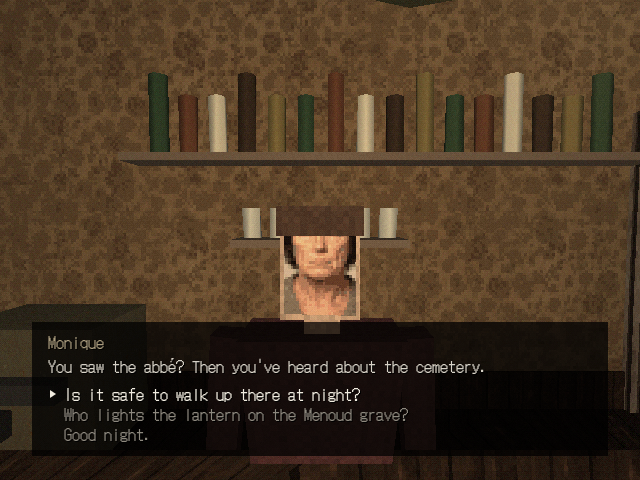
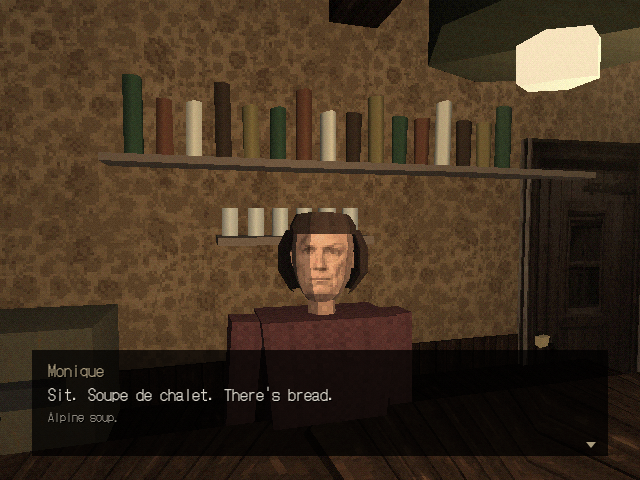
Step back to talking distance when a conversation starts
The reporter eases back to 1.3 m from the person over a third of a second, unless a wall is in the way, so the head fills about a fifth of the frame instead of most of it.

diff --git a/src/game/kit/npc.ts b/src/game/kit/npc.ts
@@ -3,10 +3,12 @@ import { castModel, type CharacterId } from '../../engine/characters/cast';
 import { Character, type WalkOptions } from '../../engine/characters/character';
 import type { Waypoint } from '../../engine/characters/motion';
 import { collarBell, cowbell } from '../../engine/characters/voices';
+import { playerTuning } from '../../engine/player';
 import { hashString } from '../../engine/random';
 import { dialogues, type EntryId, type NodeId } from '../../content';
 import type { DialogueScript } from '../dialogue';
 import { Placed, type KitContext } from './builders';
+import { stepBack } from './talkFraming';
 
 /**
  * A cast member placed in the level: a villager, Le Loyon (`marc`), Bari, or Marquise. Place
@@ -58,6 +60,7 @@ export class NpcBuilder extends Placed {
         radius: 0.35,
         prompt,
         onInteract: async () => {
+          this.standBack();
           this.talking = true;
           this.character.lookAt = this.ctx.scene.player.camera.position;
           this.character.turnToLook = true;
@@ -74,6 +77,31 @@ export class NpcBuilder extends Placed {
       });
     });
     return this;
+  }
+
+  /**
+   * Eases the reporter back to talking distance over a third of a second, so the person stays in
+   * frame from the chest up. The camera moves with it, because the player doesn't update while a
+   * dialogue holds the input.
+   */
+  private standBack(): void {
+    const { player } = this.ctx.scene;
+    const from = { x: player.position.x, z: player.position.z };
+    const step = stepBack(from, { x: this.character.position.x, z: this.character.position.z });
+    const to = this.ctx.world.collision.move(from, step, playerTuning.radius);
+    const span = { x: to.x - from.x, z: to.z - from.z };
+    let time = 0;
+    const ease = (dt: number) => {
+      time = Math.min(1, time + dt / 0.35);
+      const remaining = 1 - Math.sin((time * Math.PI) / 2);
+      const move = { x: to.x - span.x * remaining - player.position.x, z: to.z - span.z * remaining - player.position.z };
+      player.position.x += move.x;
+      player.position.z += move.z;
+      player.camera.position.x += move.x;
+      player.camera.position.z += move.z;
+      if (time >= 1) this.ctx.world.updates.delete(ease);
+    };
+    if (Math.hypot(span.x, span.z) > 0.02) this.ctx.world.updates.add(ease);
   }
 
   /** Already seated when the scene opens, on a seat `height` meters up. See `Character.sit`. */

diff --git a/src/game/kit/talkFraming.test.ts b/src/game/kit/talkFraming.test.ts
@@ -1,0 +1,21 @@
+import { describe, expect, it } from 'vitest';
+import { stepBack, TALK_DISTANCE } from './talkFraming';
+
+describe('stepBack', () => {
+  it('moves straight away from the character to the talking distance', () => {
+    const step = stepBack({ x: 0, z: 0.5 }, { x: 0, z: 0 });
+    expect(step.x).toBeCloseTo(0);
+    expect(step.z).toBeCloseTo(TALK_DISTANCE - 0.5);
+  });
+
+  it('keeps the direction on a diagonal', () => {
+    const step = stepBack({ x: 0.6, z: 0.8 }, { x: 0, z: 0 }, 2);
+    expect(step.x).toBeCloseTo(0.6);
+    expect(step.z).toBeCloseTo(0.8);
+  });
+
+  it('stays put when already far enough, or on top of the character', () => {
+    expect(stepBack({ x: 0, z: 2 }, { x: 0, z: 0 })).toEqual({ x: 0, z: 0 });
+    expect(stepBack({ x: 0, z: 0 }, { x: 0, z: 0 })).toEqual({ x: 0, z: 0 });
+  });
+});

diff --git a/src/game/kit/talkFraming.ts b/src/game/kit/talkFraming.ts
@@ -1,0 +1,17 @@
+import type { Vec2 } from '../../engine/physics/collision';
+
+/**
+ * How far from a character the reporter stands to talk, in meters. At this distance the head
+ * fills about a fifth of the frame's height, so the face reads as part of a person.
+ */
+export const TALK_DISTANCE = 1.3;
+
+/** The move that takes `from` straight back from `to` until they are `distance` apart; none when already that far. */
+export function stepBack(from: Vec2, to: Vec2, distance = TALK_DISTANCE): Vec2 {
+  const dx = from.x - to.x;
+  const dz = from.z - to.z;
+  const gap = Math.hypot(dx, dz);
+  if (gap >= distance || gap < 1e-3) return { x: 0, z: 0 };
+  const scale = (distance - gap) / gap;
+  return { x: dx * scale, z: dz * scale };
+}
